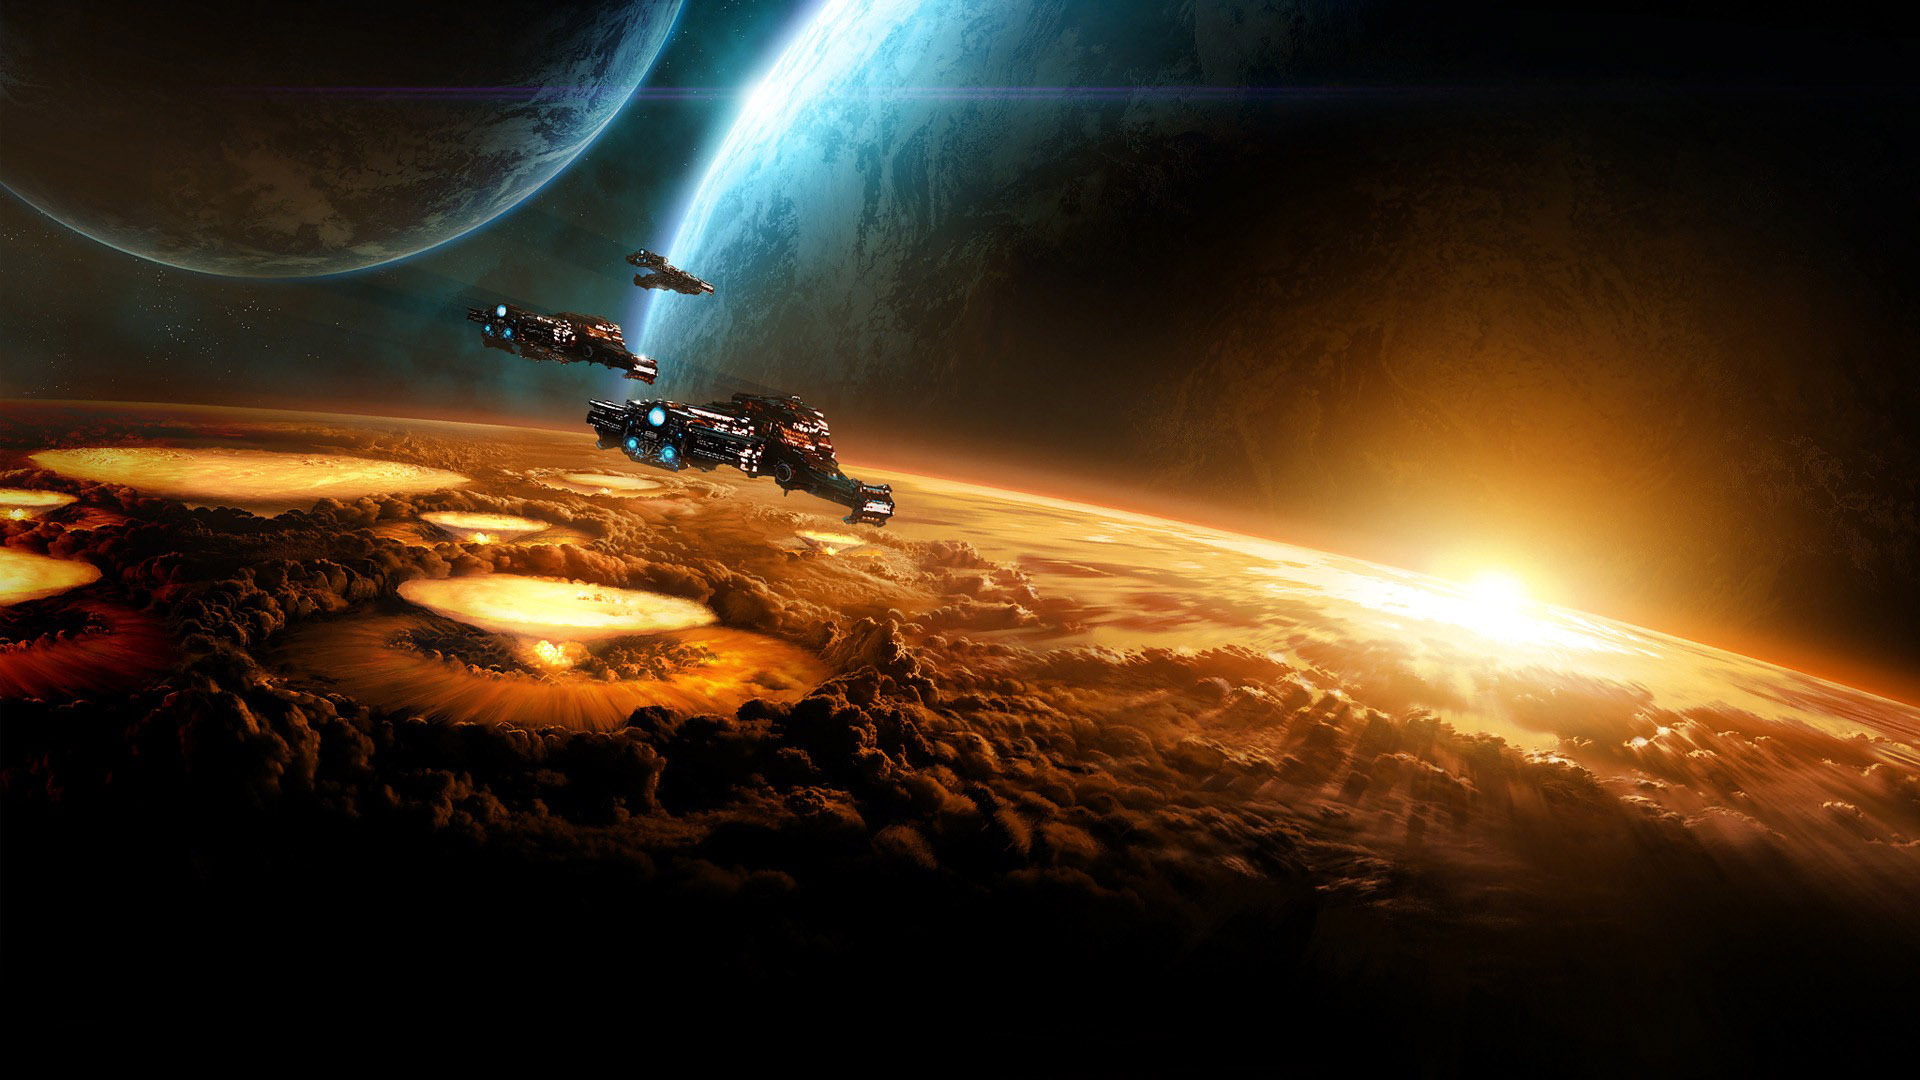
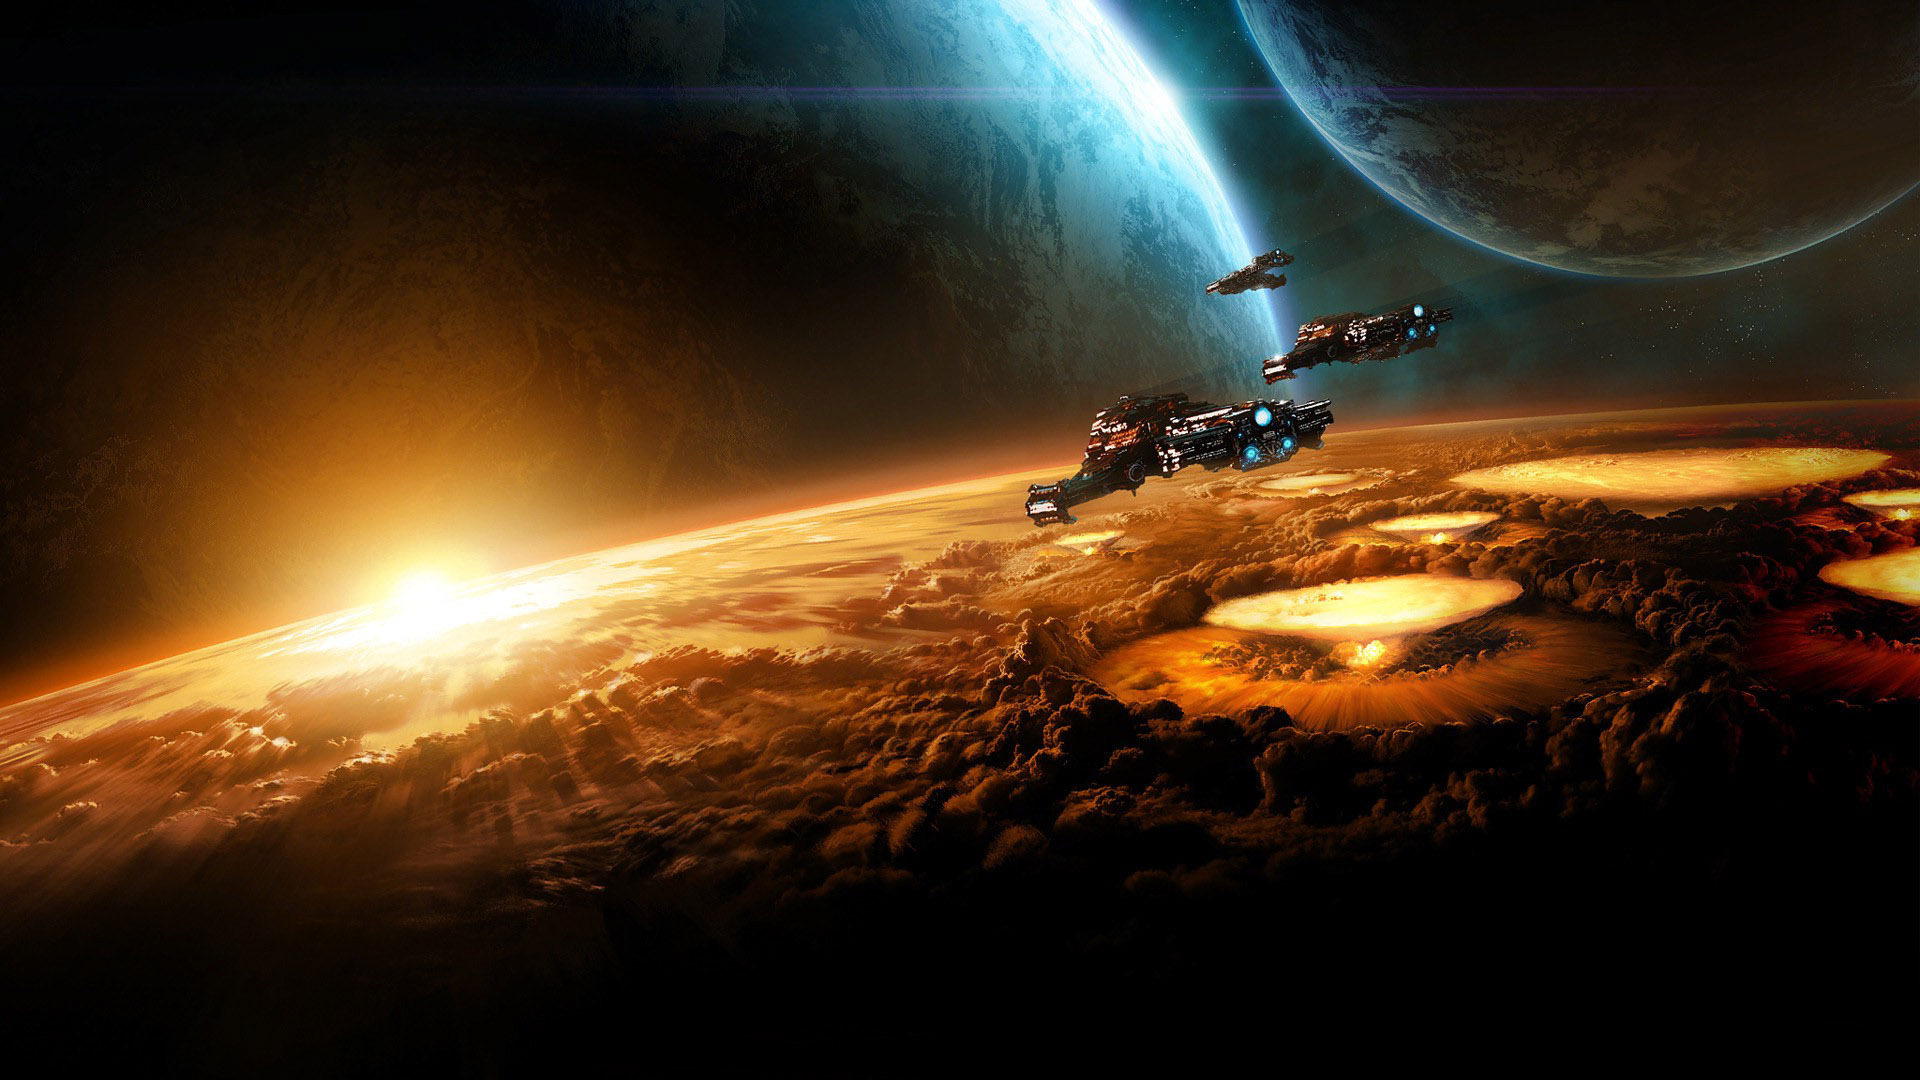
volteada la imagen, reparado el div de previa

diff --git a/index.html b/index.html
@@ -26,12 +26,12 @@
 </header>
 
 <div id="principal">
-	<h1 class="izq">OPEN GAMES</h1>
-	<img src="engrane.png" class="izq">
+	<h1>OPEN GAMES</h1>
+	<img src="engrane.png">
 	<form class="der">
 		<input type="text" placeholder="Search for a game">
 	</form> 
-	<div id="vizq">
+	<div id="vizq" class="ventana">
 		<div id="lista">
 			<p class="izq">Name</p>
 			<p class="der">Mode</p>
@@ -40,77 +40,79 @@
 			</form>
 			<div class="juego">
 				<img src="juego.png">
-				<p class="der">Diablo</p>
-				<p class="izq">Hack'n Slash</p>
+				<p class="izq">Diablo</p>
+				<p class="der"q>Hack'n Slash</p>
 			</div>
 			<div class="juego">
 				<img src="juego.png">
-				<p class="der">Skyrim</p>
-				<p class="izq">RPG</p>
+				<p class="izq">Skyrim</p>
+				<p class="der">RPG</p>
 			</div>
 			<div class="juego">
 				<img src="juego.png">
-				<p class="der">BroodWar</p>
-				<p class="izq">RTS</p>
+				<p class="izq">BroodWar</p>
+				<p class="der">RTS</p>
 			</div>
 			<div class="juego">
 				<img src="juego.png">
-				<p class="der">Lol Or Lie</p>
-				<p class="izq">Hide 'n Seek</p>
+				<p class="izq">Lol Or Lie</p>
+				<p class="der">Hide 'n Seek</p>
 			</div>
 			<div class="juego">
 				<img src="juego.png">
-				<p class="der">Skybound</p>
-				<p class="izq">FreeForAll</p>
+				<p class="izq">Skybound</p>
+				<p class="der">FreeForAll</p>
 			</div>
 			<div class="juego">
 				<img src="juego.png">
-				<p class="der">SmashBros</p>
-				<p class="izq">RunorDie</p>
+				<p class="izq">SmashBros</p>
+				<p class="der">RunorDie</p>
 			</div>
 			<div class="juego">
 				<img src="juego.png">
-				<p class="der">Grandma Prix</p>
-				<p class="izq">Shooter</p>
+				<p class="izq">Grandma Prix</p>
+				<p class="der">Shooter</p>
 			</div>
 			<div class="juego">
 				<img src="juego.png">
-				<p class="der">Fastest game ever</p>
-				<p class="izq">Turn based 5X</p>
+				<p class="izq">Fastest game ever</p>
+				<p class="der">Turn based 5X</p>
 			</div>
 			<div class="juego">
 				<img src="juego.png">
-				<p class="der">RPGWorld</p>
-				<p class="izq">Shoot'Em'all</p>
+				<p class="izq">RPGWorld</p>
+				<p class="der">Shoot'Em'all</p>
 			</div>
 			<div class="juego">
 				<img src="juego.png">
-				<p class="der">Jesus the savior</p>
-				<p class="izq">Satanic</p>
+				<p class="izq">Jesus the savior</p>
+				<p class="der">Satanic</p>
 			</div>
 			<div class="juego">
 				<img src="juego.png">
-				<p class="der">CocaCola</p>
-				<p class="izq">Fat'emall</p>
+				<p class="izq">CocaCola</p>
+				<p class="der">Fat'emall</p>
 			</div>
 
 		</div>
-		<div id="previa">
+		<div id="previa" >
 			<p>INFO</p>
-			<img src="info.jpg">
-			<h1>-Mafia- v1.834</h1>
-			<h2>The-JdOp</h2>
-			<h2>8 players</h2>
-			<h2>8 stars</h2>
-			<h2>Custom</h2>
-			<h2>1200947 ratings</h2>
-			<h2>Other</h2>
-			<p>Es el juego que viene, para todos desde norteamerica LOL aqui una descripcion breve, pika el boton de abajo para cambiar el FONDO LOL  TROLOLOLOLOL ROLFMAOXYZ xD brlbrlbrlbrlbrlbrlbrlbrlbrbrlbrl</p>
+			<div id="previa1">
+				<img src="info.jpg">
+				<h1>-Mafia- v1.834</h1>
+				<h2 class="izq">The-JdOp</h2>
+				<h2 class="der">8 players</h2>
+				<h2 class="izq">8 stars</h2>
+				<h2 class="der">Custom</h2>
+				<h2 class="izq">1200947 ratings</h2>
+				<h2 class="der">Other</h2>
+				<p>Es el juego que viene, para todos desde norteamerica LOL aqui una descripcion breve, pika el boton de abajo para cambiar el FONDO LOL  TROLOLOLOLOL ROLFMAOXYZ xD brlbrlbrlbrlbrlbrlbrlbrlbrbrlbrl</p>
+			</div>
 		</div>
 	</div>
-	<div id="vder">
-		<p></p>
-		<img src="info.jpg" id="grandeimg">
+	<div id="vder" class="ventana">
+		<p>Spotlight</p>
+		<img src="grandeimg.png" id="grandeimg">
 		<img src="chicaimg1.jpg" class="chicaimg">
 		<img src="chicaimg2.jpg" class="chicaimg">
 		<img src="chicaimg3.jpg" class="chicaimg">
